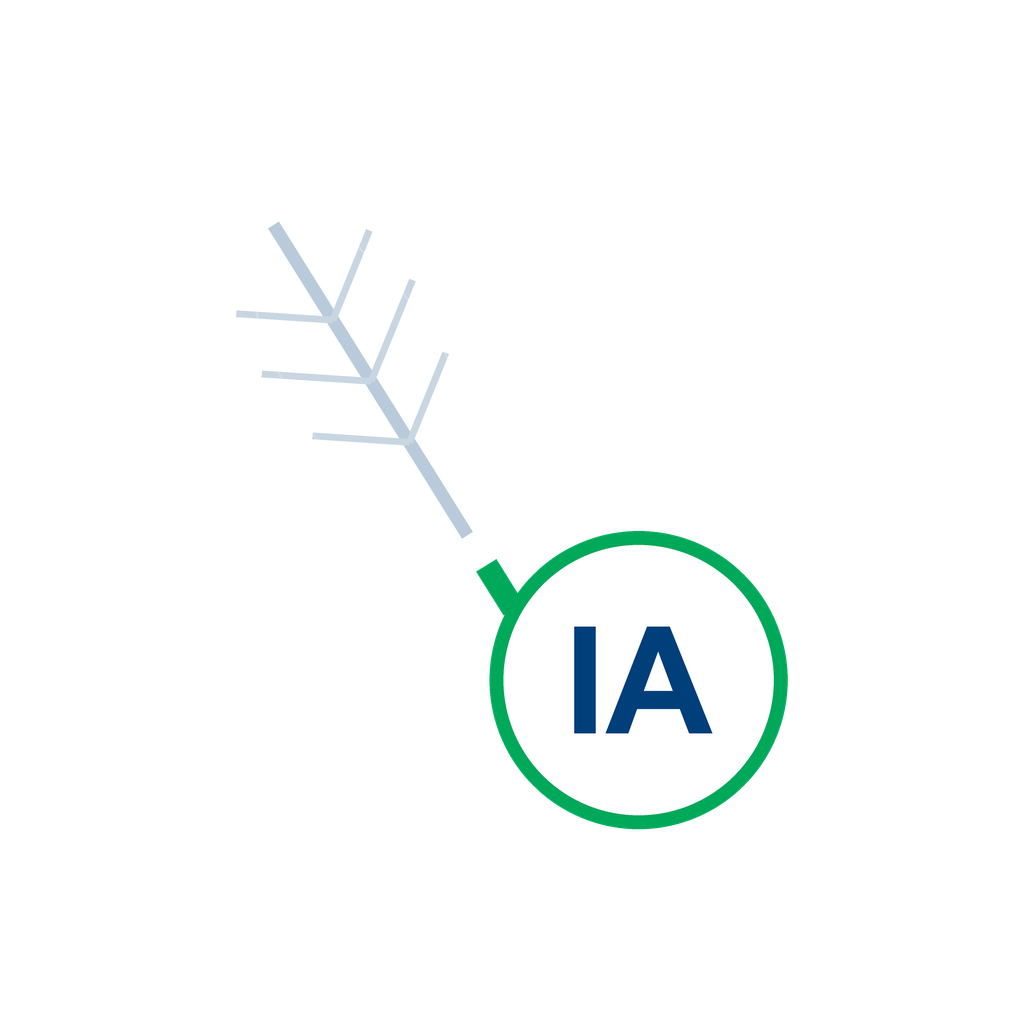
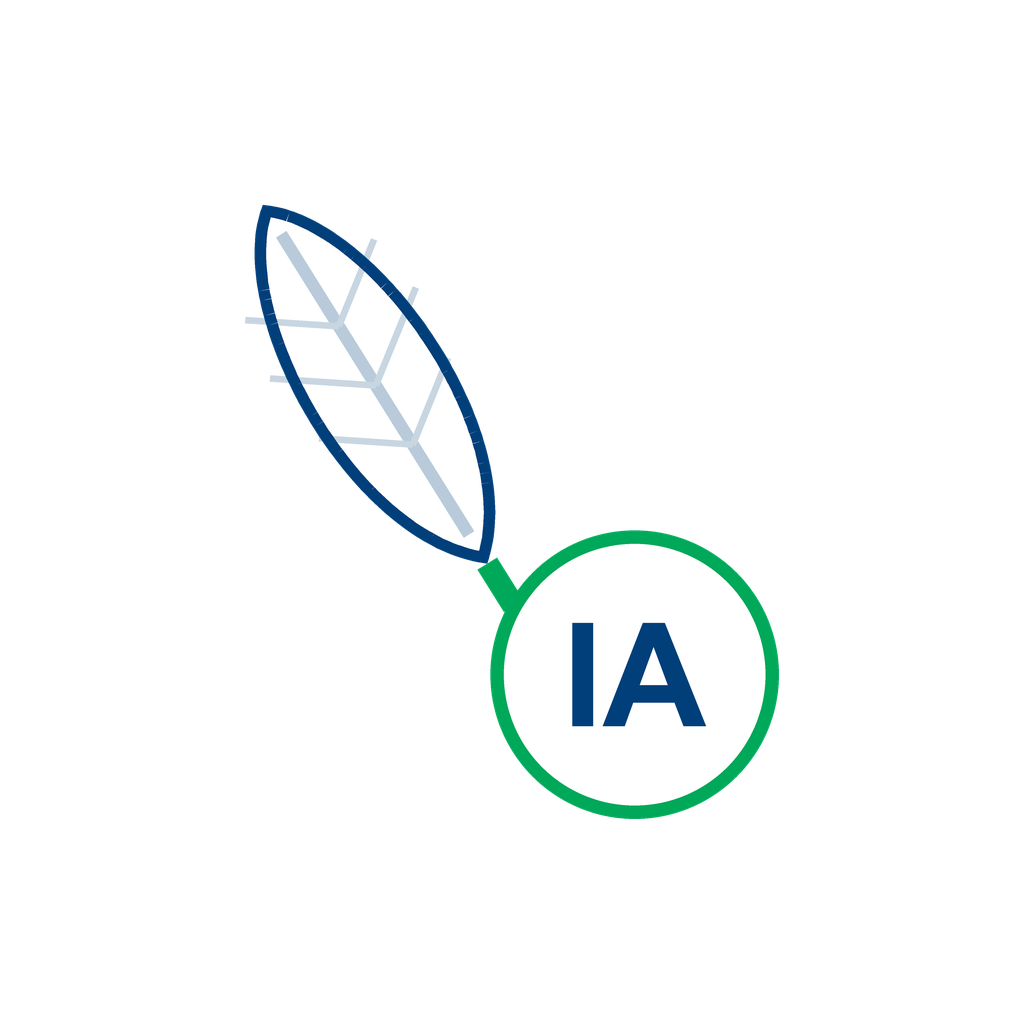
fix(mobile): icono adaptativo robusto ante launchers que ignoran el background
El launcher de Honor mostraba la hoja blanca casi invisible (themed icons /
plato claro forzado / cache de instalacion previa). Refuerza los assets
adaptativos sin tocar el look aprobado de icon.png:
- foreground: contorno navy en la hoja (invisible sobre el background navy,
  pero define la hoja si un launcher la pinta sobre un plato claro); las
  nervaduras y el chip IA ya eran legibles sobre blanco.
- monochrome: silueta de hoja mas grande (0.60->0.66) y solida para que
  themed icons la lea bien al tintarla.
- icon.png / splash / favicon / background sin cambios (regeneracion
  deterministica de gen_icons.py).

Verificado componiendo el fg sobre blanco y sobre navy, y simulando el
tintado del monochrome.

diff --git a/Frontend/smart-waste-mobile/assets/brand/gen_icons.py b/Frontend/smart-waste-mobile/assets/brand/gen_icons.py
@@ -74,13 +74,18 @@ def _sc(pts, k):
     return [(x * k, y * k) for (x, y) in pts]
 
 
-def draw_mark(img, k, include_ia=True, details=True, leaf_fill=WHITE):
+def draw_mark(img, k, include_ia=True, details=True, leaf_fill=WHITE, leaf_outline=None):
     d = ImageDraw.Draw(img, "RGBA")
     # Pecíolo (tallo corto) detrás de la hoja
     if details:
         d.line(_sc(_petiole(), k), fill=GREEN + (255,), width=max(1, int(24 * k)), joint="curve")
-    # Hoja
-    d.polygon(_sc(_leaf_outline(), k), fill=leaf_fill)
+    # Hoja. leaf_outline (opcional) dibuja un contorno: invisible sobre el fondo
+    # navy del adaptive icon, pero define la hoja blanca si un launcher la pinta
+    # sobre un plato claro (themed icons / OEM que ignora el background).
+    if leaf_outline:
+        d.polygon(_sc(_leaf_outline(), k), fill=leaf_fill, outline=leaf_outline, width=max(1, int(12 * k)))
+    else:
+        d.polygon(_sc(_leaf_outline(), k), fill=leaf_fill)
     # Nervaduras (sobre overlay para translucidez sobre la hoja)
     if details:
         mid, sides = _veins()
@@ -115,9 +120,10 @@ def gradient_rounded_bg(W):
     return out
 
 
-def render_mark_only(W, include_ia=True, details=True, leaf_fill=WHITE):
+def render_mark_only(W, include_ia=True, details=True, leaf_fill=WHITE, leaf_outline=None):
     img = Image.new("RGBA", (W, W), (0, 0, 0, 0))
-    draw_mark(img, W / 1024.0, include_ia=include_ia, details=details, leaf_fill=leaf_fill)
+    draw_mark(img, W / 1024.0, include_ia=include_ia, details=details,
+              leaf_fill=leaf_fill, leaf_outline=leaf_outline)
     return img
 
 
@@ -152,9 +158,12 @@ def main():
     draw_mark(splash, Ws / 1024.0)
     save(splash, "splash-icon.png", 512)
 
-    save(centered(render_mark_only(W), W, 0.62), "android-icon-foreground.png", 1024)
+    # Foreground con contorno navy: robusto si el launcher ignora el background.
+    save(centered(render_mark_only(W, leaf_outline=NAVY + (255,)), W, 0.60),
+         "android-icon-foreground.png", 1024)
     save(Image.new("RGBA", (W, W), NAVY + (255,)), "android-icon-background.png", 1024)
-    save(centered(render_mark_only(W, include_ia=False, details=False), W, 0.60),
+    # Monocromo (themed icons): silueta sólida y más grande para que la hoja se lea al tintarse.
+    save(centered(render_mark_only(W, include_ia=False, details=False), W, 0.66),
          "android-icon-monochrome.png", 1024)
 
     print("Listo.")